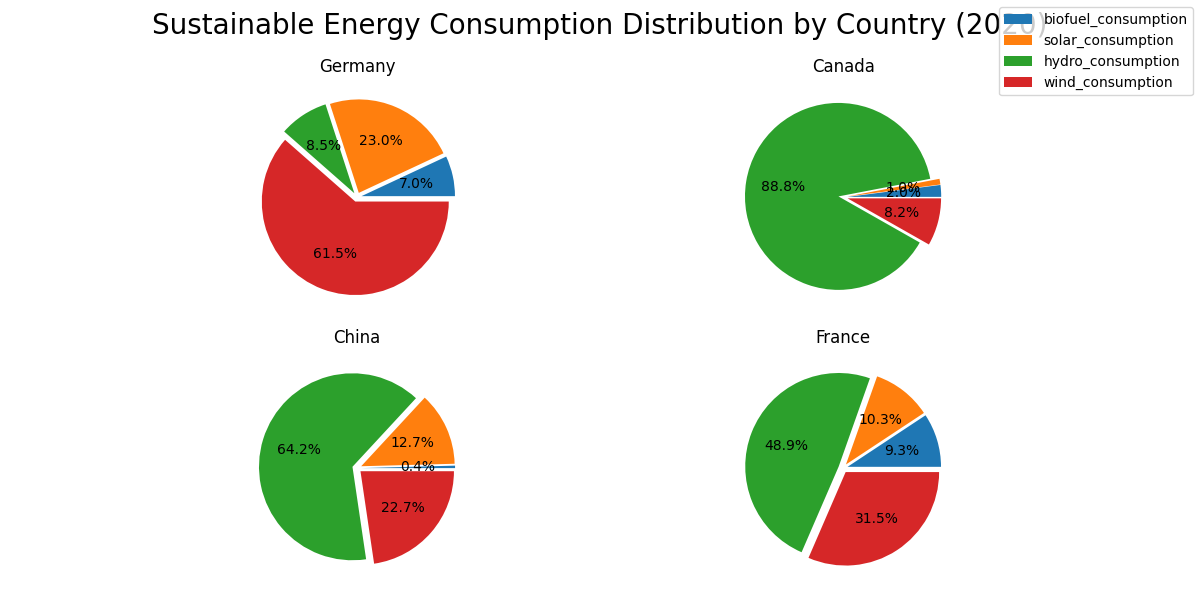
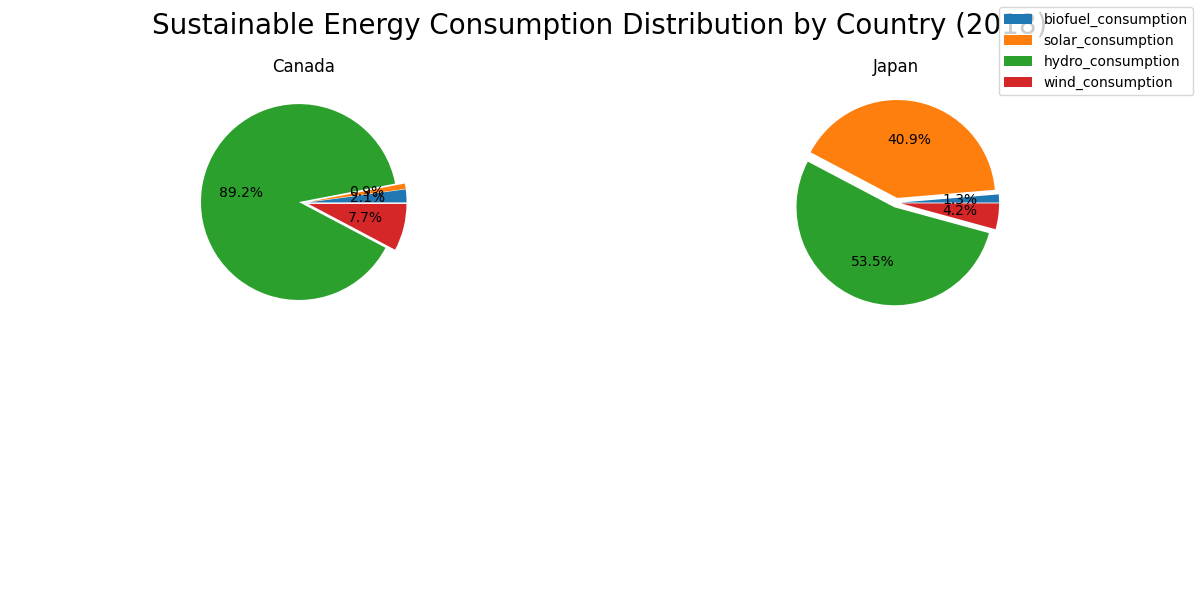
Client side generates graph 2

diff --git a/client/src/parameters.tsx b/client/src/parameters.tsx
@@ -1,5 +1,5 @@
 import { useEffect, useState } from 'react';
-import CountryDropdown from './countrydropdown'
+import {CountryDropdown, YearDropdown} from './dropdowns'
 import { ToastContainer, toast } from 'react-toastify';
 import 'react-toastify/dist/ReactToastify.css';
 
@@ -7,6 +7,10 @@ import 'react-toastify/dist/ReactToastify.css';
 function Parameters() {
     const [selectedGraph, setSelectedGraph] = useState('');
     const [selectedCountry, setSelectedCountry] = useState('');
+    const [selectedCountry2, setSelectedCountry2] = useState('');
+    const [selectedCountry3, setSelectedCountry3] = useState('');
+    const [selectedCountry4, setSelectedCountry4] = useState('');
+    const [selectedYear, setSelectedYear] = useState(2022);
 
     useEffect(() => {
         const token = localStorage.getItem('SelectedGraph');
@@ -25,7 +29,18 @@ function Parameters() {
                             <CountryDropdown id="countryDropdown" onSelectCountry={setSelectedCountry} />
                         </div>
             case '2':
-                return <div>You chose graph 2</div>
+                return <div>
+                            <div><label htmlFor="countryDropdown">Select a country:</label>
+                            <CountryDropdown id="countryDropdown" onSelectCountry={setSelectedCountry} /></div>
+                            <div><label htmlFor="countryDropdown">Select a second country (Optional):</label>
+                            <CountryDropdown id="countryDropdown" onSelectCountry={setSelectedCountry2} /></div>
+                            <div><label htmlFor="countryDropdown">Select a third country (Optional):</label>
+                            <CountryDropdown id="countryDropdown" onSelectCountry={setSelectedCountry3} /></div>
+                            <div><label htmlFor="countryDropdown">Select a fourth country (Optional):</label>
+                            <CountryDropdown id="countryDropdown" onSelectCountry={setSelectedCountry4} /></div>
+                            <div><label htmlFor="countryDropdown">Select a year:</label>
+                            <YearDropdown id="yearDropDown" onSelectYear={setSelectedYear} /></div>
+                        </div>
             case '3':
                 return <div>You chose graph 3</div>
             case '4':
@@ -50,24 +65,59 @@ function Parameters() {
                     });
     
                     if (response.ok) {
-                        const imageBlob = await response.blob();
-                        const imageUrl = URL.createObjectURL(imageBlob);
+                        toast.success("Generating graph...");
+                        const imageUrl = 'http://localhost:5000/image/fossilconsumption.png';
                         localStorage.setItem('GeneratedGraph', imageUrl);
                         window.location.href = '/YourGraph';
                     } else {
                         console.error('Failed to generate graph:', response.statusText);
-                        toast.error('Failed to generate graph.')
+                        toast.error('Failed to generate graph.');
                     }
                 } catch (error) {
                     console.error('Error:', error);
                 }
             } else {
-                toast.error("Select a country.")
+                toast.error("Select a country.");
+            }
+        } else if (selectedGraph === '2') {
+            if (selectedCountry) {
+                if (selectedYear) {
+                    try {
+                        const url = new URL('http://localhost:5000/pieChart', window.location.origin);
+                        url.searchParams.append('year', selectedYear.toString());
+                        url.searchParams.append('country', selectedCountry);
+                        url.searchParams.append('country', selectedCountry2);
+                        url.searchParams.append('country', selectedCountry3);
+                        url.searchParams.append('country', selectedCountry4);
+                        url.searchParams.append('graphType', selectedGraph);
+        
+                        const response = await fetch(url.toString(), {
+                            method: 'GET',
+                        });
+        
+                        if (response.ok) {
+                            toast.success("Generating graph...");
+                            const imageUrl = 'http://localhost:5000/image/sustainconsumption.png';
+                            localStorage.setItem('GeneratedGraph', imageUrl);
+                            window.location.href = '/YourGraph';
+                        } else {
+                            console.error('Failed to generate graph:', response.statusText);
+                            toast.error('Failed to generate graph.');
+                        }
+                    } catch (error) {
+                        console.error('Error:', error);
+                    }
+                } else {
+                    toast.error("Select a year.")
+                }
+            } else {
+                toast.error("Select a country.");
             }
         } else {
             window.location.href = '/YourGraph';
         }
     };
+    
 
 
   return (

diff --git a/client/src/dropdowns.tsx b/client/src/dropdowns.tsx
@@ -32,12 +32,19 @@ const countries = [
     "Syria"
 ];
 
+const years = Array.from({ length: 123 }, (_, index) => 1900 + index);
+
 interface CountryDropdownProps {
     id: string;
     onSelectCountry: (country: string) => void;
 }
 
-const CountryDropdown: React.FC<CountryDropdownProps> = ({ id, onSelectCountry  }) => {
+interface YearDropdownProps {
+    id: string;
+    onSelectYear: (year: number) => void;
+}
+
+export const CountryDropdown: React.FC<CountryDropdownProps> = ({ id, onSelectCountry  }) => {
     const handleChange = (event: React.ChangeEvent<HTMLSelectElement>) => {
         onSelectCountry(event.target.value);
     };
@@ -53,4 +60,18 @@ const CountryDropdown: React.FC<CountryDropdownProps> = ({ id, onSelectCountry  
     );
 };
 
-export default CountryDropdown;
+export const YearDropdown: React.FC<YearDropdownProps> = ({ id, onSelectYear  }) => {
+    const handleChange = (event: React.ChangeEvent<HTMLSelectElement>) => {
+        onSelectYear(parseInt(event.target.value));
+    };
+
+    return (
+        <select id={id} onChange={handleChange}>
+            {years.map((year, index) => (
+                <option key={index} value={year}>
+                    {year}
+                </option>
+            ))}
+        </select>
+    );
+};

diff --git a/client/src/yourgraph.tsx b/client/src/yourgraph.tsx
@@ -1,4 +1,5 @@
 import { useEffect, useState } from 'react';
+import 'react-toastify/dist/ReactToastify.css';
 
 function YourGraph() {
     const [imageUrl, setImageUrl] = useState('');
@@ -16,11 +17,23 @@ function YourGraph() {
         window.location.href = '/parameters';
     };
 
+    const handleDownload = () => {
+      const downloadLink = document.createElement('a');
+      downloadLink.href = imageUrl;
+      downloadLink.download = 'your-graph.png';
+      document.body.appendChild(downloadLink);
+      downloadLink.click();
+      document.body.removeChild(downloadLink);
+  };
+  
+  
+
     return (
         <div>
             <button type="button" onClick={handleBack}>Back</button>
             <h1>Your Graph</h1>
             {imageUrl && <img src={imageUrl} alt="Generated Graph" />}
+            {imageUrl && <button type="button" onClick={handleDownload}>Download Graph</button>}
         </div>
     );
 }

diff --git a/server/server/server.js b/server/server/server.js
@@ -20,7 +20,8 @@ app.use(morgan('tiny')); // loger
 app.use(express.json()); // body-parcer
 
 // this is the client route
-// app.use('/', express.static(path.join(__dirname, 'dist')));
+app.use('/', express.static(path.join(__dirname, 'dist')));
+app.use('/image', express.static(path.join(__dirname, 'image')));
 
 // middleware for routes are below
 app.use('/', graphRoutes)
